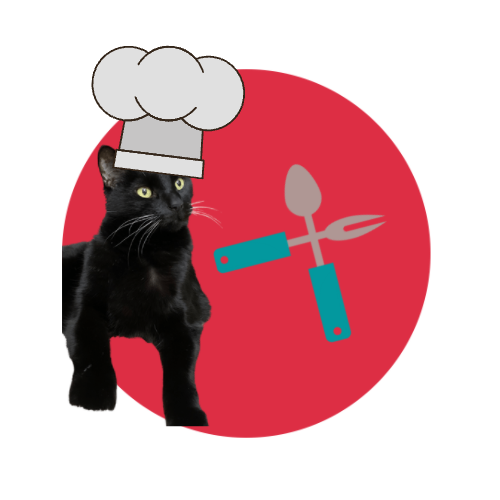
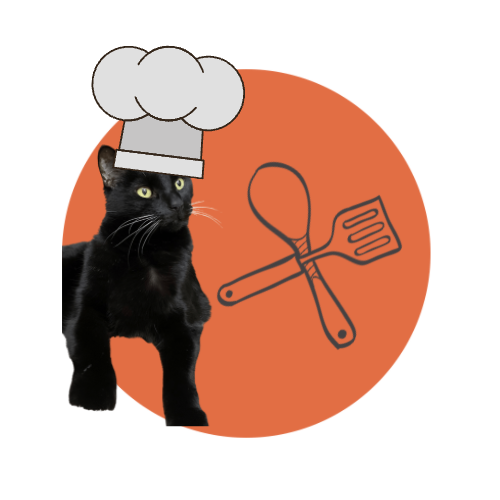
styled app

Changed region(s): [[0.36, 0.12, 0.87, 0.9], [0.12, 0.24, 0.27, 0.51], [0.21, 0.66, 0.33, 0.84]]

diff --git a/src/index.css b/src/index.css
@@ -1,9 +1,14 @@
 :root {
-  --light: #eee;
+  /* --light: #eee;
   --dark: #342F4E;
   --darker: #262336;
   --blue: #61DAFB;
-  --crimson: #DB3052;
+  --crimson: #DB3052; */
+  --light: #d3d0cbff;
+  --dark: #393e41ff;
+  --darker: #1e2019ff;
+  --blue: #587b7fff;
+  --crimson: #e26e44;
 }
 
 * {
@@ -32,6 +37,14 @@ body {
 }
 #bean-chef {
   width: 50%;
+}
+#logo-text { 
+  color: #E2C044; 
+  font-family: 'Trocchi', serif; 
+  font-size: 45px; 
+  font-weight: normal; 
+  line-height: 48px; 
+  margin: 0; 
 }
 
 h1 {
@@ -66,7 +79,7 @@ h1 {
   width: 100%;
   height: 100%;
   padding: .2em;
-  color: #fff;
+  color: #E2C044;
   margin: 0 15px;
   font-size: 4em;
 }
@@ -78,6 +91,34 @@ h1 {
   justify-content: center;
   align-items: center;
   align-content: center;
+}
+.rec-carousel-item:focus {
+    outline: none;
+    box-shadow: inset 0 0 1px 1px lightgray;
+}
+.rec-carousel-item:hover {
+    outline: none;
+    box-shadow: inset 0 0 1px 1px lightgray;
+}
+.rec.rec-arrow {
+    border-radius: 5;
+    background-color: #E2C044;
+}
+.rec.rec-arrow:hover {
+    border-radius: 5;
+    background-color: #E2C044;
+}
+.rec.rec-arrow:focus {
+    border-radius: 5;
+    background-color: #E2C044;
+}
+.rec.rec-arrow:hover:enabled {
+  border-radius: 5;
+  background-color: #E2C044;
+}
+.rec.rec-dot_active {
+  background: #E2C044;
+  box-shadow: 0 0 1px 1px lightgray;
 }
 
 button {
@@ -181,5 +222,27 @@ input, textarea {
 }
 
 progress {
-  font-size: 1.5rem;
+  border-radius: 7px; 
+  width: 80%;
+  box-shadow: 1px 1px 4px rgba( 0, 0, 0, 0.2 );
+}
+progress::-webkit-progress-bar {
+  border-radius: 1.5rem;
+}
+progress::-webkit-progress-value {
+  background-color: #E2C044;
+  border-radius: 1.5rem;
+  box-shadow: 1px 1px 5px 3px lightgray;
+}
+#file-upload {
+  display: none;
+}
+.custom-file-upload {
+    border: .3em solid #e26e44;
+    background-color: #e26e44;
+    text-align: center;
+    padding: .3em;
+    border-radius: .5em;
+    width: 30%;
+    cursor: pointer;
 }

diff --git a/src/components/Form.jsx b/src/components/Form.jsx
@@ -147,22 +147,15 @@ export default function Form({ recipesCollectionRef, setPopupActive }) {
               <div className="form-group">
                 <progress value={progress} max="100" />
                 <br />
-                <br />
-                <input type="file" multiple onChange={handleChange} />
-                <button type="button" onClick={handleImages}>
-                  Upload Pics
-                </button>
+            <br />
+            <label for="file-upload" class="custom-file-upload">Browse</label>
+                <input id="file-upload" type="file" multiple onChange={handleChange} />
+                <button type="button" onClick={handleImages}> Click to upload pics</button>
               </div>
 
               <div className="buttons">
                 <button type="submit">Submit</button>
-                <button
-                  type="button"
-                  className="remove"
-                  onClick={() => setPopupActive(false)}
-                >
-                  Close
-                </button>
+                <button type="button" className="remove" onClick={() => setPopupActive(false)} > Close </button>
               </div>
             </form>
           </div>

diff --git a/public/index.html b/public/index.html
@@ -3,6 +3,9 @@
   <head>
     <meta charset="utf-8" />
     <link rel="icon" href="%PUBLIC_URL%Bean-Chef.png" />
+    <link rel="preconnect" href="https://fonts.googleapis.com">
+    <link rel="preconnect" href="https://fonts.gstatic.com" crossorigin>
+    <link href="https://fonts.googleapis.com/css2?family=Trocchi&display=swap" rel="stylesheet">
     <meta name="viewport" content="width=device-width, initial-scale=1" />
     <meta name="theme-color" content="#000000" />
     <meta

diff --git a/src/App.js b/src/App.js
@@ -47,7 +47,7 @@ function App() {
   return (
     <div className="App">
       <div className="logo-container">
-      <h1>Kara Cooks</h1>
+      <h1 id="logo-text">Kara Cooks</h1>
       <span><img id="bean-chef" src="Bean-Chef.png" /></span>
       </div>
       <button onClick={() => setPopupActive(!popupActive)}>Add recipe</button>
